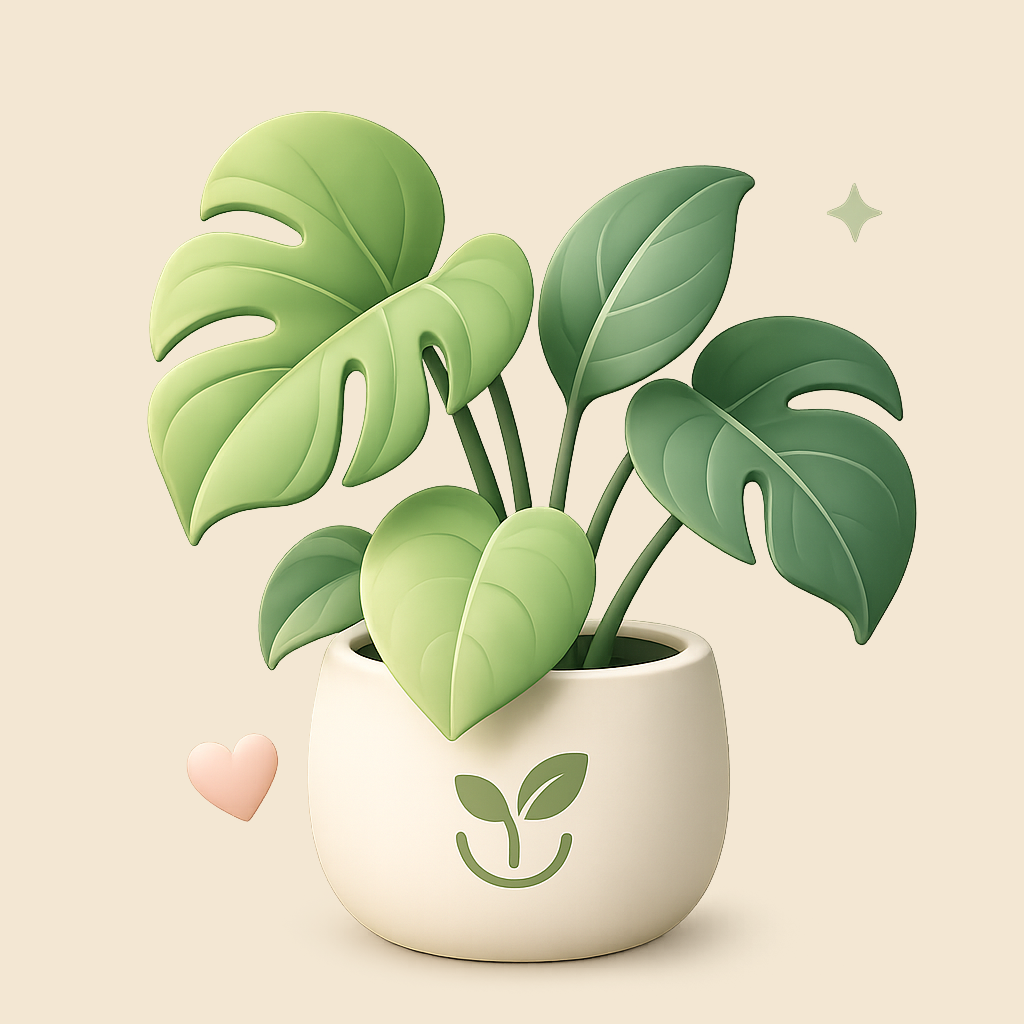
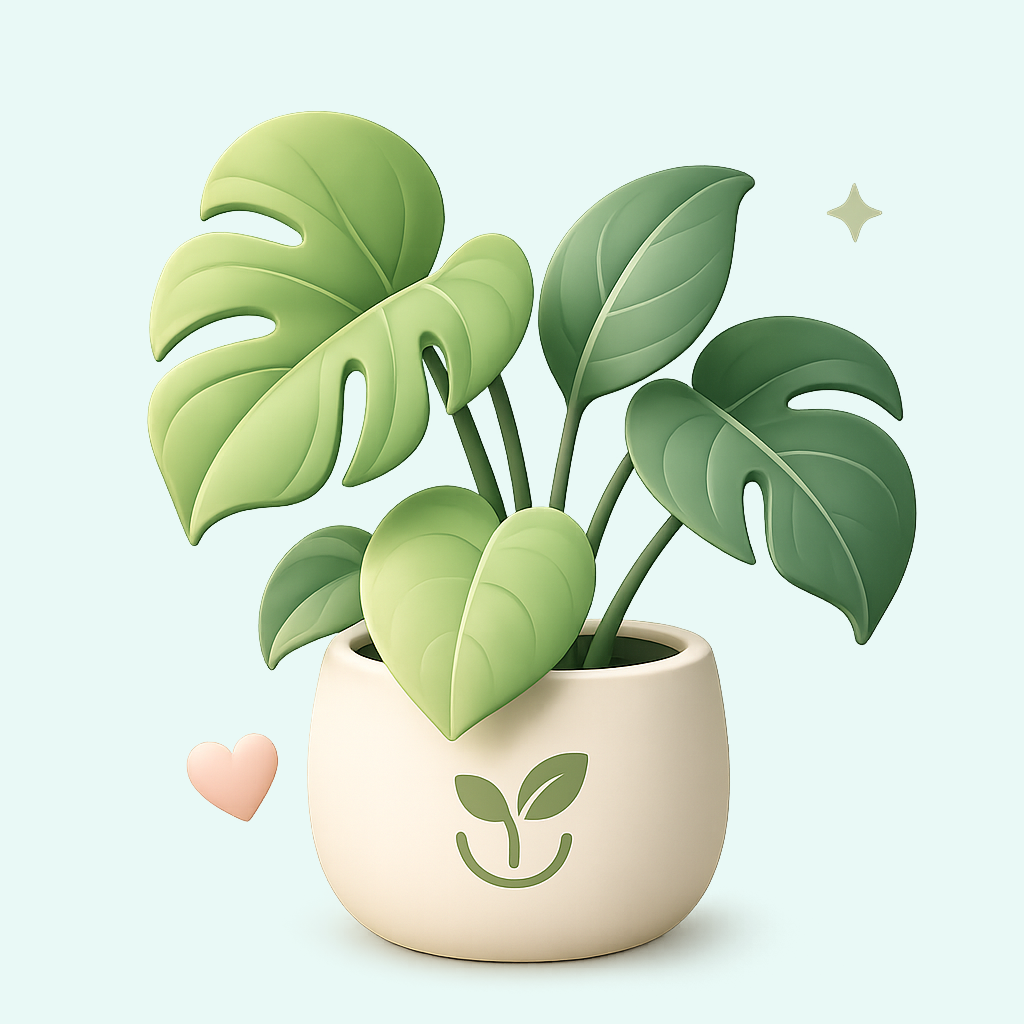
Update splash screen colors and enhance TodayScreen layout
- Changed splash screen background color in `app.json` for improved aesthetics.
- Updated `icon.png` to ensure visual consistency with new design standards.
- Refactored layout in `TodayScreen` to improve scroll behavior and spacing, enhancing user experience.

diff --git a/apps/native/screens/today/index.tsx b/apps/native/screens/today/index.tsx
@@ -119,8 +119,17 @@ export function TodayScreen() {
 
   if (activePlants.length === 0) {
     return (
-      <Container className="px-4" isScrollable>
-        <View className="gap-6 pt-2">
+      <Container
+        isScrollable
+        scrollViewProps={{
+          contentContainerStyle: {
+            paddingTop: insets.top + 4,
+            paddingHorizontal: 16,
+            paddingBottom: insets.bottom + 96,
+          },
+        }}
+      >
+        <View className="gap-4">
           <Header
             greeting={timeOfDayGreeting(now)}
             date={formatLongDate(now)}
